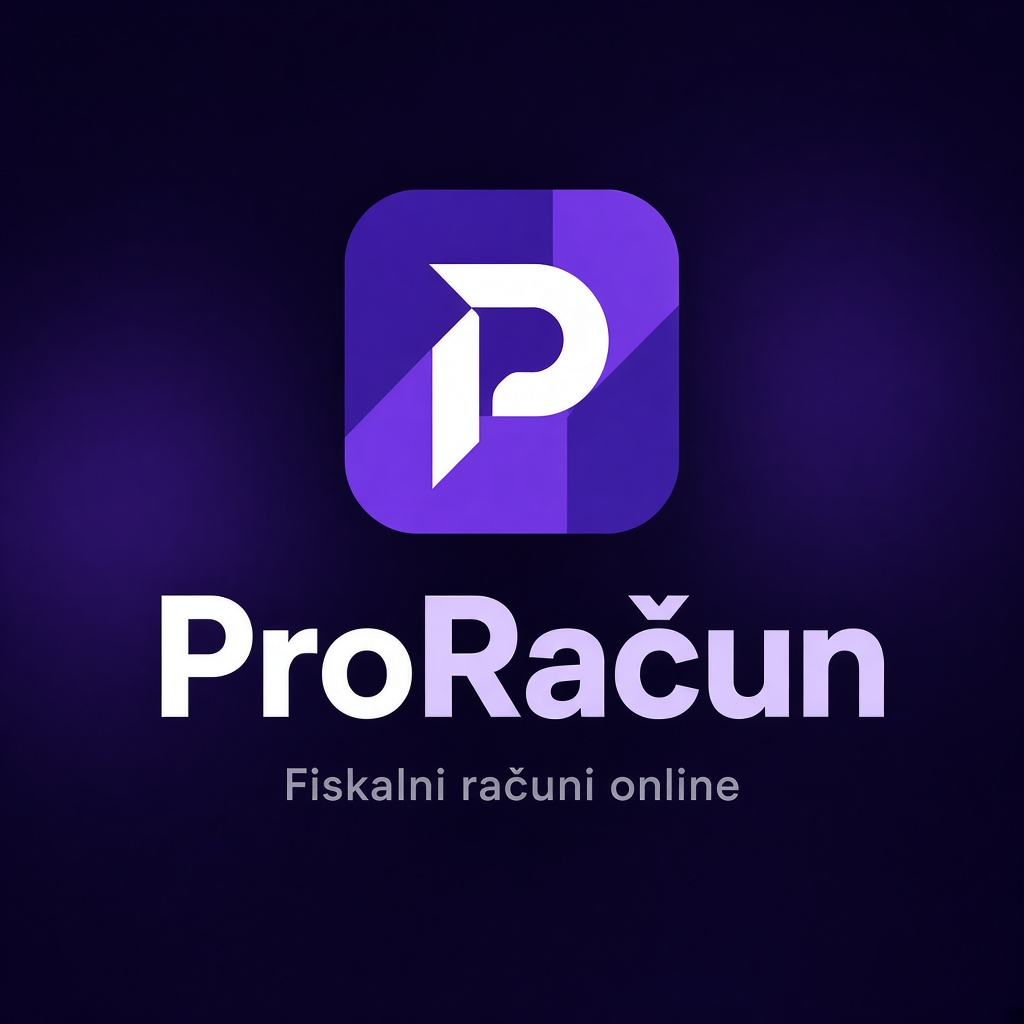
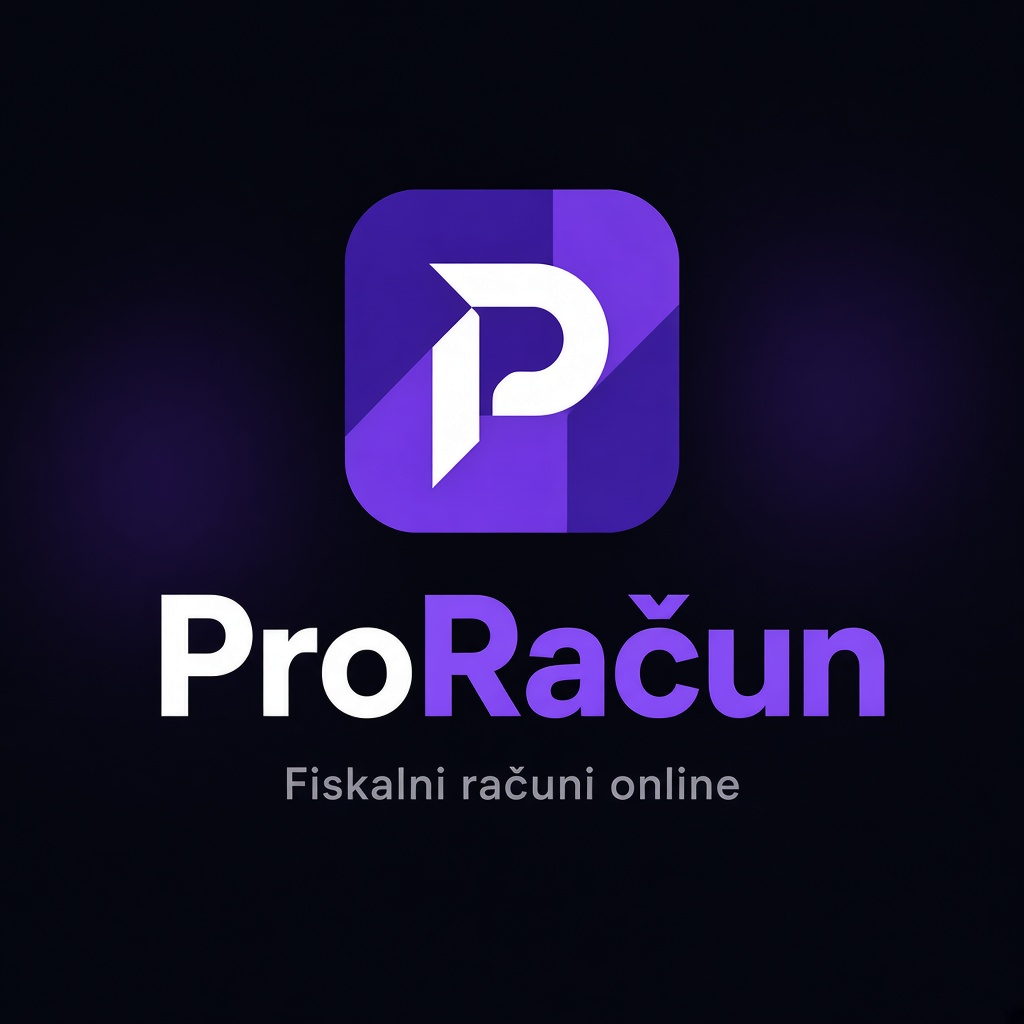
feat: transparent ProRačun lockup and clearer invoice row actions

diff --git a/sepko/templates/base.html b/sepko/templates/base.html
@@ -26,14 +26,14 @@
   <link rel="preconnect" href="https://cdn.jsdelivr.net" crossorigin>
   <link href="https://fonts.googleapis.com/css2?family=Plus+Jakarta+Sans:wght@400;500;600;700&display=swap" rel="stylesheet">
   <link rel="stylesheet" href="https://cdn.jsdelivr.net/npm/@awesome.me/webawesome@3.12.0/dist-cdn/styles/themes/shoelace.css">
-  <link rel="stylesheet" href="/static/style.css?v=145">
+  <link rel="stylesheet" href="/static/style.css?v=147">
   <link rel="stylesheet" href="/static/fb-table.css?v=5">
   <link rel="stylesheet" href="/static/webawesome-theme.css?v=11">
   <link rel="stylesheet" href="/static/pwa.css?v=2">
   {% block head_extra %}{% endblock %}
   {% block extra_css %}{% endblock %}
-  <link rel="icon" href="/static/img/sepko-mark.png?v=14" type="image/png" sizes="1024x1024">
-  <link rel="icon" href="/static/img/sepko-mark.svg?v=12" type="image/svg+xml">
+  <link rel="icon" href="/static/img/sepko-mark.png?v=15" type="image/png" sizes="512x512">
+  <link rel="icon" href="/static/img/sepko-mark.svg?v=15" type="image/svg+xml">
   {% block manifest %}
   <link rel="manifest" href="/manifest.webmanifest">
   {% endblock %}
@@ -54,7 +54,7 @@
   <meta name="twitter:image" content="{% block twitter_image %}{{ brand_url }}/static/img/og-proracun.png?v=5{% endblock %}">
   <meta name="apple-mobile-web-app-capable" content="yes">
   <meta name="apple-mobile-web-app-title" content="{{ brand }}">
-  <link rel="apple-touch-icon" href="/static/img/sepko-mark.png?v=14">
+  <link rel="apple-touch-icon" href="/static/img/sepko-mark.png?v=15">
   <script type="module" src="https://cdn.jsdelivr.net/npm/@awesome.me/webawesome@3.12.0/dist-cdn/webawesome.loader.js"></script>
   <script src="/static/webawesome-init.js?v=1"></script>
   <script src="/static/money.js?v=1"></script>
@@ -87,7 +87,7 @@
           <i data-lucide="menu" aria-hidden="true"></i>
         </button>
         <a class="topbar-brand" href="{% if is_admin_portal %}/admin{% else %}/{% endif %}" aria-label="{{ brand }}">
-          <img class="brand-logo" src="/static/img/sepko-logo.svg?v=12" alt="{{ brand }}" width="186" height="36">
+          <img class="brand-logo" src="/static/img/sepko-logo.png?v=15" alt="{{ brand }}" width="181" height="48">
         </a>
       </div>
       <div class="topbar-right">

diff --git a/sepko/static/webawesome-theme.css b/sepko/static/webawesome-theme.css
@@ -38,7 +38,9 @@ html.wa-theme-shoelace.wa-dark {
   --wa-color-brand-80: var(--cta-hover);
 }
 
-/* Filled brand buttons: white on CTA in both themes (WA dark would use dark on-loud). */
+/* Default WA appearance is accent: fill-loud + on-loud (white). Tokens alone
+   can still resolve to a pale tint; pierce the shadow with ::part. */
+html.wa-theme-shoelace,
 html.wa-theme-shoelace.wa-light,
 html.wa-theme-shoelace:not(.wa-dark),
 html.wa-theme-shoelace.wa-dark {
@@ -47,24 +49,27 @@ html.wa-theme-shoelace.wa-dark {
   --wa-color-brand-border-loud: var(--cta);
 }
 
-.inv-compose-form wa-button[variant="brand"]::part(base) {
-  background: var(--cta);
+wa-button[variant="brand"]:not([appearance="outlined"]):not([appearance="plain"]):not([appearance="filled-outlined"]) {
+  --wa-color-fill-loud: var(--cta);
+  --wa-color-on-loud: #fff;
+  --wa-color-brand-fill-loud: var(--cta);
+  --wa-color-brand-on-loud: #fff;
+  color: #fff;
+}
+wa-button[variant="brand"]:not([appearance="outlined"]):not([appearance="plain"]):not([appearance="filled-outlined"])::part(button),
+wa-button[variant="brand"]:not([appearance="outlined"]):not([appearance="plain"]):not([appearance="filled-outlined"])::part(base) {
+  background-color: var(--cta);
   border-color: var(--cta);
   color: #fff;
 }
-.inv-compose-form wa-button[variant="brand"]:hover::part(base) {
-  background: var(--cta-hover);
-  border-color: var(--cta-hover);
-}
-.inv-actions wa-button[variant="brand"]::part(base) {
-  background: var(--cta);
-  border-color: var(--cta);
+wa-button[variant="brand"]:not([appearance="outlined"]):not([appearance="plain"]):not([appearance="filled-outlined"])::part(label) {
   color: #fff;
-  font-weight: 600;
 }
-.inv-actions wa-button[variant="brand"]:hover::part(base) {
-  background: var(--cta-hover);
+wa-button[variant="brand"]:not([appearance="outlined"]):not([appearance="plain"]):not([appearance="filled-outlined"]):hover::part(button),
+wa-button[variant="brand"]:not([appearance="outlined"]):not([appearance="plain"]):not([appearance="filled-outlined"]):hover::part(base) {
+  background-color: var(--cta-hover);
   border-color: var(--cta-hover);
+  color: #fff;
 }
 
 html.wa-theme-shoelace.wa-light,

diff --git a/sepko/templates/login.html b/sepko/templates/login.html
@@ -5,7 +5,7 @@
 {% block auth %}
 <div class="login-wrap">
   <div class="login-stack">
-    <img class="brand-logo brand-logo-lg brand-logo-stack" src="/static/img/proracun-lockup.png?v=5" alt="{{ brand }}" width="280" height="280">
+    <img class="brand-logo brand-logo-lg brand-logo-stack" src="/static/img/proracun-lockup-clear.png?v=1" alt="{{ brand }}" width="280" height="280">
     <div class="card login-card">
     <p class="muted">{{ t('login.title', 'Prijava') }}</p>
     {% if flash %}
@@ -13,8 +13,14 @@
     {% endif %}
     <form method="post" action="/login" class="wa-form-stack">
       <input type="hidden" name="csrf_token" value="{{ csrf_token }}">
-      <wa-input id="email" name="email" type="email" label="{{ t('login.email', 'Email') }}" required autocomplete="username"></wa-input>
-      <wa-input id="password" name="password" type="password" password-toggle label="{{ t('login.password', 'Lozinka') }}" required autocomplete="current-password"></wa-input>
+      <div class="field">
+        <label for="email">{{ t('login.email', 'Email') }}</label>
+        <input id="email" name="email" type="email" required autocomplete="username" autofocus>
+      </div>
+      <div class="field">
+        <label for="password">{{ t('login.password', 'Lozinka') }}</label>
+        <input id="password" name="password" type="password" required autocomplete="current-password">
+      </div>
       <div class="wa-form-actions">
         <button type="submit" class="btn">{{ t('login.submit', 'Prijavi se') }}</button>
       </div>

diff --git a/sepko/static/style.css b/sepko/static/style.css
@@ -928,11 +928,12 @@ th { font-size: 0.72rem; color: var(--muted); font-weight: 600; text-transform: 
 }
 .login-stack .brand-logo-stack {
   height: auto;
-  width: min(280px, 72vw);
-  max-height: 280px;
-  border-radius: 28px;
-  object-fit: cover;
-  filter: none;
+  width: min(260px, 70vw);
+  max-height: none;
+  border-radius: 0;
+  object-fit: contain;
+  background: transparent;
+  filter: drop-shadow(0 8px 24px rgba(0, 0, 0, 0.35));
 }
 .login-card {
   width: 100%; border: none;
@@ -1609,9 +1610,18 @@ body.sepko-dialog-open { overflow: hidden; }
   display: inline-flex;
   align-items: center;
   justify-content: flex-end;
-  gap: 0.2rem;
+  gap: 0.5rem;
 }
-.row-actions form { margin: 0; display: contents; }
+.row-actions form {
+  margin: 0;
+  display: inline-flex;
+}
+.row-actions .btn-icon-row-danger {
+  margin-inline: 0.2rem;
+}
+.row-actions .btn-icon-row-accent {
+  margin-left: 0.55rem;
+}
 .visually-hidden {
   position: absolute;
   width: 1px;
@@ -1657,6 +1667,9 @@ body.sepko-dialog-open { overflow: hidden; }
   background: var(--cta-hover);
   border-color: var(--cta-hover);
   filter: brightness(1.05);
+}
+.btn-icon-row-danger {
+  color: var(--danger);
 }
 .btn-icon-row-danger:hover {
   color: var(--danger);
@@ -1722,7 +1735,7 @@ body.sepko-dialog-open { overflow: hidden; }
   display: inline-flex;
   align-items: center;
   justify-content: flex-end;
-  gap: 0.4rem;
+  gap: 0.65rem;
 }
 .row-icon-form { display: inline; margin: 0; }
 .btn-icon {

diff --git a/sepko/templates/admin/login.html b/sepko/templates/admin/login.html
@@ -3,7 +3,7 @@
 {% block auth %}
 <div class="login-wrap">
   <div class="login-stack">
-    <img class="brand-logo brand-logo-lg brand-logo-stack" src="/static/img/proracun-lockup.png?v=5" alt="{{ brand }}" width="280" height="280">
+    <img class="brand-logo brand-logo-lg brand-logo-stack" src="/static/img/proracun-lockup-clear.png?v=1" alt="{{ brand }}" width="280" height="280">
     <div class="card login-card">
     <p class="muted">Prijava u platformu</p>
     {% if flash %}
@@ -11,8 +11,14 @@
     {% endif %}
     <form method="post" action="/admin/login" class="wa-form-stack">
       <input type="hidden" name="csrf_token" value="{{ csrf_token }}">
-      <wa-input id="email" name="email" type="email" label="Email" required autocomplete="username"></wa-input>
-      <wa-input id="password" name="password" type="password" password-toggle label="Lozinka" required autocomplete="current-password"></wa-input>
+      <div class="field">
+        <label for="email">Email</label>
+        <input id="email" name="email" type="email" required autocomplete="username" autofocus>
+      </div>
+      <div class="field">
+        <label for="password">Lozinka</label>
+        <input id="password" name="password" type="password" required autocomplete="current-password">
+      </div>
       <div class="wa-form-actions">
         <button type="submit" class="btn">Prijavi se</button>
       </div>

diff --git a/sepko/templates/articles.html b/sepko/templates/articles.html
@@ -147,7 +147,7 @@
           <td>
             <div class="cell-primary">
               {% if a.thumbnail_filename %}
-              <img class="article-thumb-sm" src="{% if a.thumbnail_filename.startswith('demo/') %}/static/img/demo-products/{{ a.thumbnail_filename[5:] }}?v=5{% else %}/artikli/{{ a.id }}/thumb{% endif %}" alt="">
+              <img class="article-thumb-sm" src="{% if a.thumbnail_filename.startswith('demo/') %}/static/img/demo-products/{{ a.thumbnail_filename[5:] }}?v=4{% else %}/artikli/{{ a.id }}/thumb{% endif %}" alt="">
               {% else %}
               <span class="entity-icon" style="width:28px;height:28px;font-size:0.65rem;background:{{ a.color or '#7c3aed' }};color:#fff;display:inline-grid">{{ (a.name or '?')[:2]|upper }}</span>
               {% endif %}

diff --git a/sepko/static/sw.js b/sepko/static/sw.js
@@ -3,15 +3,15 @@ const CACHE = "sepko-shell-v9";
 const PRECACHE = [
   "/app",
   "/app/kasa",
-  "/static/style.css?v=145",
+  "/static/style.css?v=147",
   "/static/pos.js?v=7",
   "/manifest.webmanifest",
   "/manifest-kasa.webmanifest",
-  "/static/img/sepko-mark.svg?v=12",
-  "/static/img/sepko-mark.png?v=14",
-  "/static/img/sepko-logo.svg?v=12",
+  "/static/img/sepko-mark.svg?v=15",
+  "/static/img/sepko-mark.png?v=15",
+  "/static/img/sepko-logo.png?v=15",
   "/static/img/og-proracun.png?v=5",
-  "/static/img/proracun-lockup.png?v=5",
+  "/static/img/proracun-lockup-clear.png?v=1",
   "/static/qr-scan.js?v=1",
   "/static/pwa.css?v=2",
   "/static/lucide.min.js?v=0.544.0",

diff --git a/sepko/templates/_invoices_list.html b/sepko/templates/_invoices_list.html
@@ -314,7 +314,7 @@
                   data-confirm-tone="danger"
                   data-confirm-ok="{{ t('btn.delete', 'Obriši') }}">
               <input type="hidden" name="csrf_token" value="{{ csrf_token }}">
-              <button type="submit" class="btn-icon-row" title="{{ t('btn.delete', 'Obriši') }}" aria-label="{{ t('btn.delete', 'Obriši') }}">
+              <button type="submit" class="btn-icon-row btn-icon-row-danger" title="{{ t('btn.delete', 'Obriši') }}" aria-label="{{ t('btn.delete', 'Obriši') }}">
                 <i data-lucide="trash-2" aria-hidden="true"></i>
               </button>
             </form>

diff --git a/sepko/web.py b/sepko/web.py
@@ -481,6 +481,7 @@ def articles_page(
     q: str | None = Query(None),
     per_page: int | None = Query(None),
     page: int = Query(1, ge=1),
+    return_to: str | None = Query(None),
     db: Session = Depends(get_db),
 ):
     try:
@@ -508,6 +509,13 @@ def articles_page(
     thumb_url = None
     if editing and editing.thumbnail_filename:
         thumb_url = article_thumb_public_url(editing.id, editing.thumbnail_filename)
+    back = _safe_return_to(return_to)
+    has_active = (
+        db.query(Article.id)
+        .filter(Article.tenant_id == tenant.id, Article.active.is_(True))
+        .first()
+        is not None
+    )
     resp = render(
         request,
         "articles.html",
@@ -526,6 +534,8 @@ def articles_page(
             "page": page,
             "pages": pages,
             "total": total,
+            "return_to": back or "",
+            "has_active_articles": has_active,
         },
     )
     return _with_per_page_cookie(resp, size, set_cookie)
@@ -547,15 +557,17 @@ async def articles_create(
     tax_rate_code: str = Form("PDV21"),
     unit: str = Form("KOM"),
     thumb: UploadFile | None = File(None),
+    return_to: str = Form(""),
     db: Session = Depends(get_db),
 ):
     try:
         user, tenant = _auth(request, db)
     except AuthRequired:
         return redirect("/login")
+    back_artikli = _artikli_url(return_to)
     if not validate_csrf(request, csrf_token):
         flash(request, "Nevažeći CSRF token.", "error")
-        return redirect("/artikli")
+        return redirect(back_artikli)
 
     exists = (
         db.query(Article)
@@ -564,7 +576,7 @@ async def articles_create(
     )
     if exists:
         flash(request, "Artikal sa tom šifrom već postoji.", "error")
-        return redirect("/artikli")
+        return redirect(back_artikli)
 
     vat, tax_code = resolve_vat(db, tenant, tax_rate_code.strip() or None)
     cat_id = int(category_id) if category_id.strip().isdigit() else None
@@ -575,7 +587,7 @@ async def articles_create(
     stock = _parse_nonneg_money(stock_qty) if stock_qty.strip() else None
     if price is None or (price_retail.strip() and retail is None) or (stock_qty.strip() and stock is None):
         flash(request, "Cijena/količina mora biti nula ili pozitivna (max 10.000.000).", "error")
-        return redirect("/artikli")
+        return redirect(back_artikli)
     article = Article(
         tenant_id=tenant.id,
         category_id=cat_id,
@@ -603,7 +615,7 @@ async def articles_create(
     except ValueError as exc:
         db.rollback()
         flash(request, str(exc), "error")
-        return redirect("/artikli")
+        return redirect(back_artikli)
     write_audit(
         db,
         "article.create",
@@ -613,7 +625,7 @@ async def articles_create(
     )
     db.commit()
     flash(request, "Artikal sačuvan.")
-    return redirect("/artikli")
+    return redirect(_safe_return_to(return_to) or "/artikli")
 
 
 @router.post("/artikli/{article_id}")
@@ -1407,6 +1419,13 @@ def _safe_return_to(raw: str | None) -> str | None:
     if not path.startswith("/") or path.startswith("//") or "://" in path:
         return None
     return path[:200]
+
+
+def _artikli_url(return_to: str | None = None) -> str:
+    rt = _safe_return_to(return_to)
+    if rt:
+        return f"/artikli?return_to={quote(rt)}"
+    return "/artikli"
 
 
 def _schedule_templates(db: Session, tenant: Tenant) -> list[Invoice]:
@@ -2258,14 +2277,27 @@ def invoice_new_page(
         user, tenant = _auth(request, db)
     except AuthRequired:
         return redirect("/login")
+    safe_return = _safe_return_to(return_to)
     ctx = _invoice_editor_context(
         request,
         db,
         user,
         tenant,
-        return_to=_safe_return_to(return_to),
+        return_to=safe_return,
         as_template=bool(as_template),
     )
+    # Bez artikala UI fakture nema šta da ponudi — vodi na šifrarnik, pa nazad.
+    if not ctx["articles"]:
+        flash(request, "Prvo dodaj barem jedan artikal, pa napravi fakturu.")
+        next_path = "/racuni/novi"
+        q: list[str] = []
+        if as_template:
+            q.append("as_template=1")
+        if safe_return:
+            q.append(f"return_to={quote(safe_return)}")
+        if q:
+            next_path = f"{next_path}?{'&'.join(q)}"
+        return redirect(_artikli_url(next_path))
     return render(request, "invoice_new.html", ctx)
 
 

diff --git a/tests/test_bootstrap.py b/tests/test_bootstrap.py
@@ -48,13 +48,13 @@ def test_ensure_client_tenants_creates_admins(monkeypatch):
             .one()
         )
         assert license_row.name == LICENSE_ITEM
-        assert license_row.thumbnail_filename == "demo/proracun.png"
+        assert license_row.thumbnail_filename == "demo/proracun.svg"
         license_row.thumbnail_filename = "demo/app.svg"
         db.commit()
         ensure_client_tenants(db)
         db.commit()
         db.refresh(license_row)
-        assert license_row.thumbnail_filename == "demo/proracun.png"
+        assert license_row.thumbnail_filename == "demo/proracun.svg"
         hotel_articles = (
             db.query(Article).filter(Article.tenant_id == hotel.id).count()
         )

diff --git a/sepko/bootstrap.py b/sepko/bootstrap.py
@@ -17,7 +17,7 @@ _DEV_PASSWORD = "sepko123"
 
 # ProStudio usluge (+ licenca) — kopija seed kataloga bez hotelskih soba
 _PROSTUDIO_ARTICLES: list[tuple[str, str, str, Decimal, Decimal, str, str]] = [
-    ("PR-BASIC", LICENSE_ITEM, "KOM", Decimal("15.00"), Decimal("21"), "#5a32d6", "demo/proracun.png"),
+    ("PR-BASIC", LICENSE_ITEM, "KOM", Decimal("15.00"), Decimal("21"), "#5a32d6", "demo/proracun.svg"),
     ("2", "Izrada web sajta", "kom", Decimal("1.00"), Decimal("21"), "#c62828", "demo/web.svg"),
     ("3", "B2B sistem", "kom", Decimal("1.00"), Decimal("21"), "#c62828", "demo/b2b.svg"),
     ("7", "Cloudflare + konfiguracija", "kom", Decimal("1.00"), Decimal("21"), "#c62828", "demo/cloud.svg"),

diff --git a/sepko/web_pos.py b/sepko/web_pos.py
@@ -147,7 +147,7 @@ def pos_pwa_manifest(request: Request):
             "launch_handler": {"client_mode": "focus-existing"},
             "icons": [
                 {
-                    "src": f"{origin}/static/img/sepko-mark.png?v=14",
+                    "src": f"{origin}/static/img/sepko-mark.png?v=15",
                     "sizes": "1024x1024",
                     "type": "image/png",
                     "purpose": "any",
